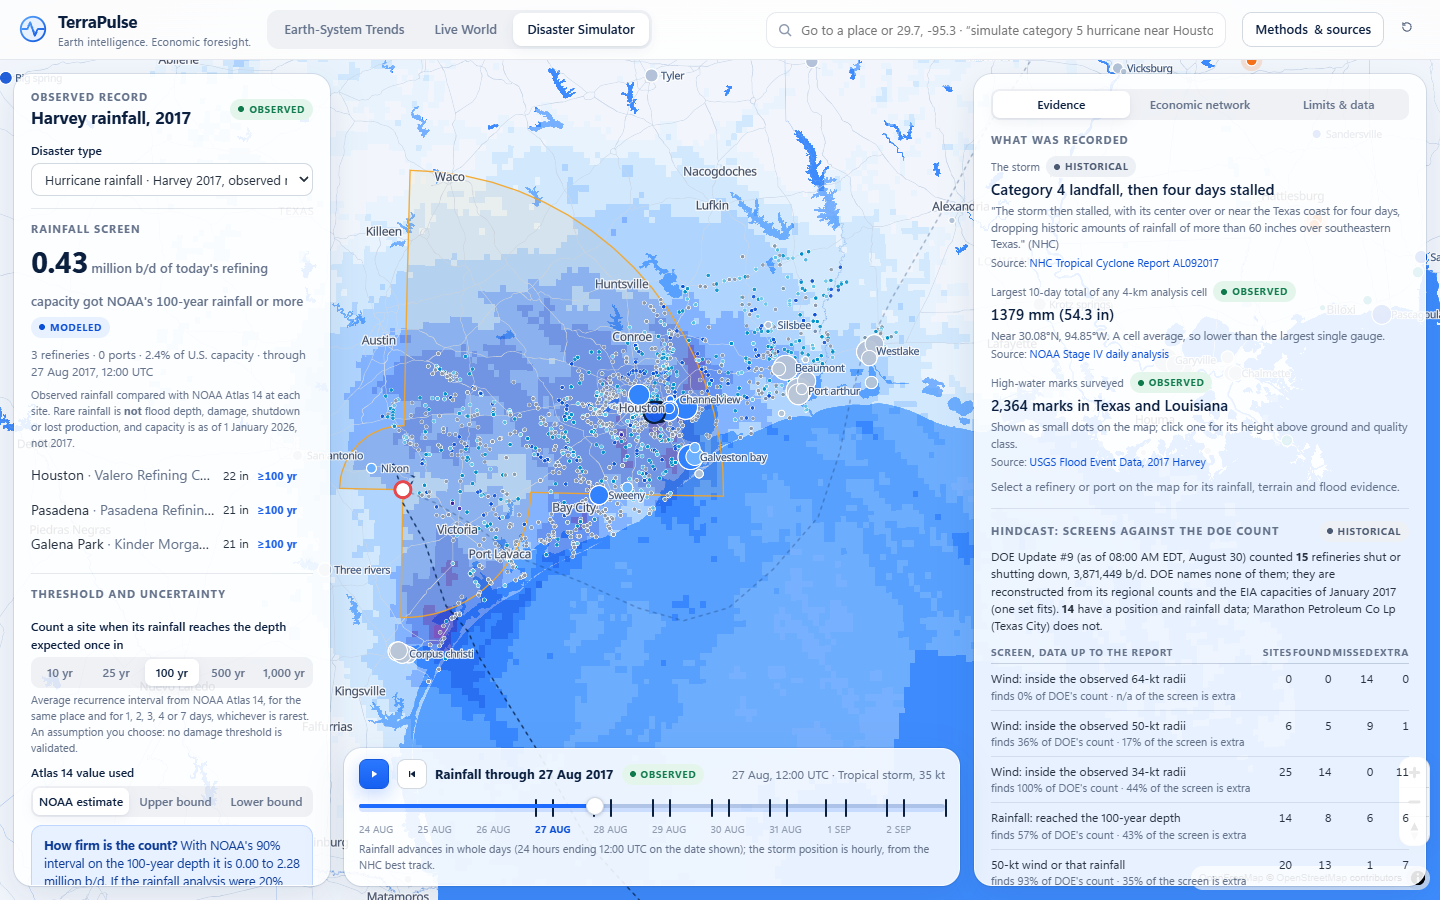
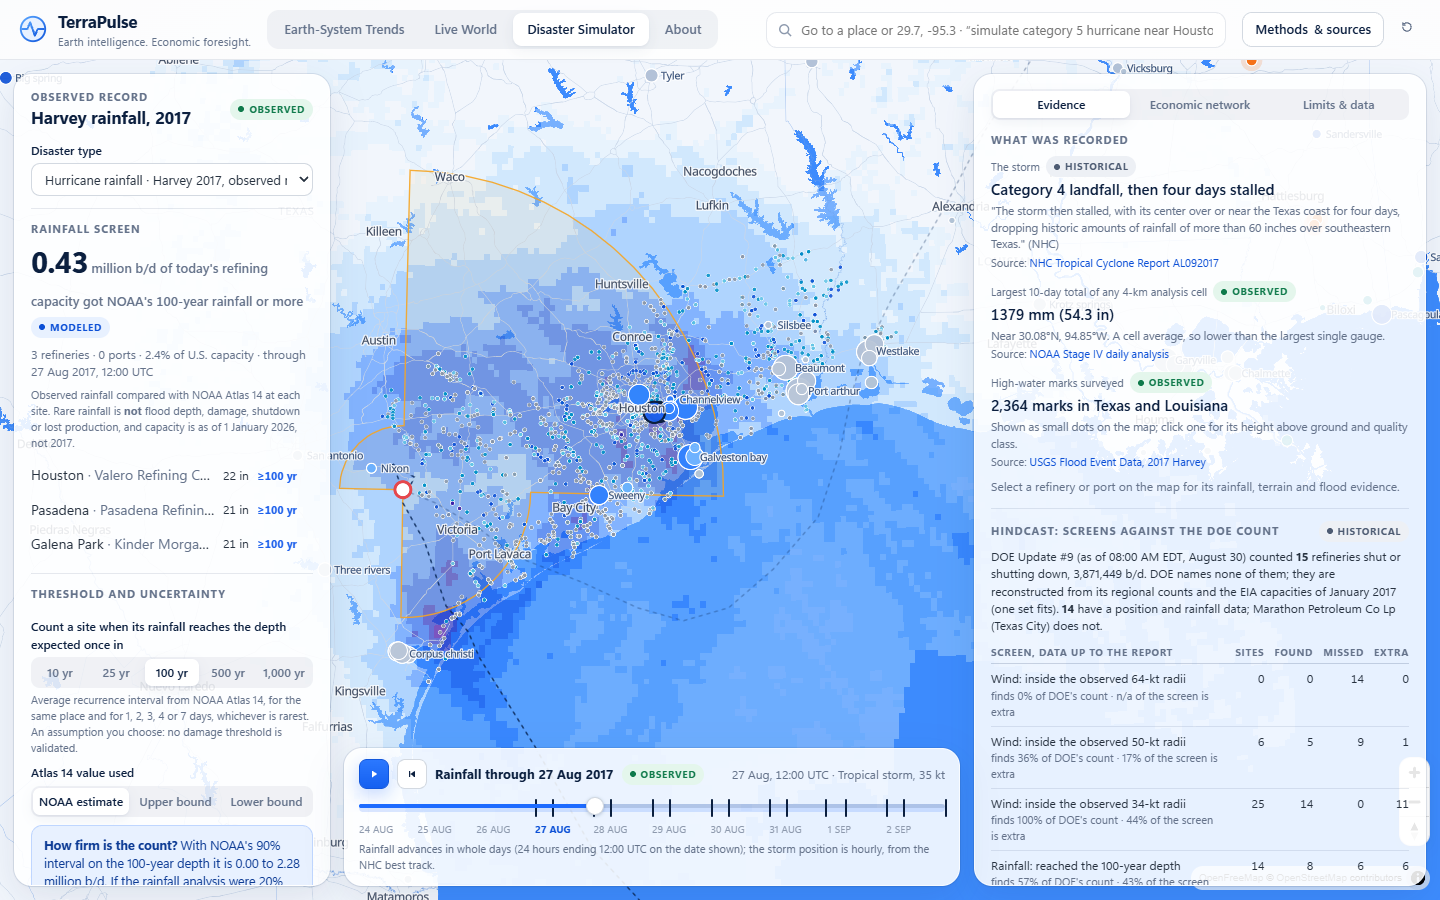
Records for the hazard branch: status, validation, tests, sources, tasks, blockers
- docs/HAZARD_SIM_BRANCH.md: what was added, validated versus experimental versus
  refused, test results, screenshots, demonstration paths, merge notes, data gaps.
- MODEL_VALIDATION.md sections 7 to 9; TEST_REPORT.md; DATA_SOURCES.md; BLOCKERS.md;
  PROGRESS.md; TASK_QUEUE.json (T08 and T23 done, T26 to T32 added); CLAUDE.md.
- Screenshots retaken after merging main.

Changed region(s): [[0.6875, 0.7778, 0.875, 0.9956], [0.875, 0.7156, 0.9375, 0.7467]]

diff --git a/docs/HAZARD_SIM_BRANCH.md b/docs/HAZARD_SIM_BRANCH.md
@@ -1,0 +1,99 @@
+# Hazard simulation research branch
+
+Branch `research/hazard-sim`, worktree `../terrapulse-sim`. Started 15 November 2026 from `cc5b89a`;
+`main` (showcase page and final demo video, `db5c4b6`) was merged in on 16 November with no conflicts.
+
+**Not deployed and not pushed.** The public site, the NASA submission video and the original
+`crollila/terrapulse` repository are untouched. The deploy workflow runs only on pushes to `main`.
+
+## What was added
+
+| Area | In the app | Science record |
+|---|---|---|
+| Hurricane rainfall and flood evidence | Simulator → "Hurricane rainfall · Harvey 2017, observed record" | `research/RAINFALL_FLOOD.md` |
+| Wildfire | Simulator → "Wildfire · observed record, three U.S. fires" | `research/WILDFIRE.md` |
+| Economic connections | "Economic network" tab in both views; one network builder for every hazard | sections 5 and 7 of the rainfall report, section 4 of the wildfire report |
+| R-CLIPER rainfall for hypothetical storms | A context line on a selected site in the wind scenario | section 6 of the rainfall report |
+
+## What is validated, what is experimental, what was refused
+
+| Item | Status | Evidence |
+|---|---|---|
+| Harvey rainfall, terrain and flood evidence at 69 sites (NOAA Stage IV, NASA IMERG and MERRA-2, NOAA Atlas 14, USGS elevation and 2,364 high-water marks, FEMA zones) | **Validated as data** | Provenance and hashes in every file; Stage IV against 1,129 rain gauges: r = 0.98, mean absolute difference 24 mm |
+| EIA refinery fleet as of 1 January 2017 | **Validated as data** | National total 18,617,027 b/d reproduced from the EIA workbook |
+| DOE's count of refineries shut, Updates #1 to #9 | **Reconstructed**, one fitting set per report | DOE names no refinery; arithmetic plus DOE's regional counts; stable for any area radius from 108 to 166 km |
+| DOE's count, Updates #10 to #22 | **Unresolved** | No regional counts printed; hundreds of sets fit |
+| Rainfall screen (observed rainfall against Atlas 14) | **Experimental** | Hindcast on one storm: finds 8 of 14 counted refineries, includes 6 not counted |
+| 50-kt wind or 100-year rainfall | **Experimental** | 13 of 14, with 7 not counted |
+| R-CLIPER modelled rainfall | **Fails on Harvey; context only** | 16% of observed rainfall where more than 750 mm fell |
+| Observed perimeters and satellite detections of three fires | **Validated as a record** | 99.6%, 98.4% and 88.4% of detections within one pixel of the separately mapped final perimeters |
+| Wildfire proximity screen | **Experimental** | Geometry only; distance is not damage |
+| Wind network after the builder was generalised | **Unchanged** | SHA-256 fingerprints of three scenarios identical before and after |
+| Flood depth, inundation, damage, outage duration | **Not built** | No trustworthy method was established |
+| Wildfire spread simulation | **Not offered** | Inputs unverified, model outside its stated domain, no validation |
+| Prices, losses, company or portfolio returns | **Not estimated anywhere** | By rule |
+
+## Tests (16 November 2026, after merging `main`)
+
+| Suite | Result |
+|---|---|
+| Type-check (`tsc --noEmit`, strict) | clean |
+| Unit and integration (Vitest) | **450 passed**, 0 failed: 357 existing + 22 rainfall arithmetic + 29 rainfall data and hindcast + 18 R-CLIPER + 8 network + 16 wildfire |
+| Browser, production build, Chromium (Playwright) | **36 passed**, 0 failed: 22 in `app.spec.ts` (including the showcase's) + 8 in `hazards.spec.ts` + 6 in `wildfire.spec.ts` |
+| Build | succeeds; bundle 1.78 MB (515 kB gzip); new data 2.7 MB uncompressed |
+
+Not run: Firefox and WebKit for the new specs; real phones; the live site (nothing was deployed).
+
+Browser tests ran against `vite preview --port 4183` with `TP_BASE_URL=http://localhost:4183/`, so
+they could not pick up another workstream's server on the default port.
+
+## Screenshots
+
+`docs/screenshots/sim/`, taken from the production build by `scripts/capture-hazards.mjs`:
+`01` rainfall whole record · `02` 27 August with wind radii · `03` a site's evidence (Port Arthur) ·
+`04` hindcast table · `05` rainfall economic network · `06` Camp Fire, 40 hours in · `07` Smokehouse
+Creek network · `08` Marshall Fire evidence · `09` wind scenario with the R-CLIPER line · `10` methods.
+
+## Demonstration paths
+
+1. **Why wind was not enough.** Simulator → Hurricane rainfall. Read the left table: observed 64-kt
+   radii hold 0.00 million b/d; the 100-year rainfall screen holds 4.40; DOE counted 3.87.
+2. **Watch it happen.** Press play. Rainfall steps day by day; the storm marker and wind radii move
+   hourly; ticks on the bar are the landfall and each DOE report.
+3. **One site.** Click Motiva Port Arthur: 1,222 mm against a 1,000-year 4-day depth; NASA IMERG saw
+   601 mm; 11 high-water marks within 5 km; counted as shut from DOE Update #9.
+4. **Honest scoring.** Evidence tab, hindcast table. Change the threshold: the table follows it.
+5. **To the economy.** Economic network tab: sites to operators to commodities; the portfolio screen;
+   DOE's and EIA's recorded impacts on one axis; a table of what is and is not claimed.
+6. **A fire, replayed.** Simulator → Wildfire. Scrub the Camp Fire: satellite detections by overpass
+   and the perimeter mapped by each date. Switch to Smokehouse Creek and set 10 km: the Borger
+   refinery is 7.8 km from the perimeter.
+
+## Merging
+
+`main` merges into this branch cleanly as of `db5c4b6`. Shared files this branch edits:
+`src/App.tsx` (two branches of the simulator switch), `src/state/store.ts` (hazard types and two
+view states), `src/components/Globe.tsx` (two hook calls, one camera branch, one condition),
+`src/components/Methods.tsx` (cards and source rows), `src/components/SimPanel.tsx`,
+`DroughtLab.tsx` (shared hazard selector), `Inspector.tsx` (R-CLIPER line), `ImpactGraph.tsx`
+(optional graph prop), `src/sim/graph.ts` (generalised builder), `src/styles.css` (one appended block).
+New browser tests live in their own spec files. Everything else is new files.
+
+To publish: review, then merge `research/hazard-sim` into `main` and push. Until then the public
+application does not change.
+
+## Remaining data gaps and research needs
+
+Rainfall and flood: section 9 of `research/RAINFALL_FLOOD.md`. Wildfire: section 7 of
+`research/WILDFIRE.md`. The largest:
+
+1. Named refinery status after 30 August 2017, and causes, from a primary source.
+2. More storms for the rainfall record, and 6-hourly rainfall.
+3. Observed inundation (USGS maps) and facility footprints instead of points.
+4. Ike (2008) scored by refinery: DOE's named table and the EIA 2008 workbook are downloaded, unused.
+5. A rainfall model that works for stalled storms; none verifiable was found.
+6. The Camp Fire's cause and fatalities from a saved primary source.
+7. Sub-daily fire timeline (NOAA HMS / GOES) and dated perimeters for more fires.
+8. A transmission-line layer with clear redistribution terms; a substation layer.
+9. A human-verified ticker table for utilities before any wildfire company or portfolio exposure.
+10. Hazards outside the United States.

diff --git a/DATA_SOURCES.md b/DATA_SOURCES.md
@@ -65,8 +65,37 @@ committed.
 
 - Equity prices: no free source with clear redistribution terms was verified. The app shows
   "Insufficient validated data".
-- NASA FIRMS active fires: needs a MAP_KEY for the API; not used. EONET wildfire events are used.
+- NASA FIRMS active fires: the API needs a MAP_KEY and is not used. The keyless yearly country archive is used for the wildfire record (branch `research/hazard-sim`); EONET wildfire events are used for the live layer.
 - NHC `CurrentStorms.json`: CORS not verified; EONET severe storms are used.
 - EIA API v2: needs a key; the no-key history workbooks are used instead.
 - Space Apps participant offers (Microsoft, Google, Meteomatics, GoDaddy, Miro): not evaluated and
   not activated. None is needed.
+
+## Hazard extensions (branch `research/hazard-sim`)
+
+All keyless. Provenance (provider, URL, retrieval time, hashes) is in the `meta` block of each file
+under `public/data/rainfall/`, `public/data/hindcast/` and `public/data/wildfire/`.
+
+| Dataset | Provider | Used for | Terms |
+|---|---|---|---|
+| Stage IV daily multisensor precipitation analysis | NOAA NWS / NCEP | Harvey rainfall field and site rainfall | U.S. Government, public domain |
+| Atlas 14 precipitation frequency estimates (HDSC) | NOAA NWS | Rainfall rarity at each site | U.S. Government, public domain |
+| GPM IMERG and MERRA-2 daily rainfall via NASA POWER | NASA | Second and third rainfall estimates | NASA open data |
+| GHCN-Daily | NOAA NCEI | Gauge check of Stage IV | U.S. Government, public domain |
+| Flood Event Data, high-water marks, event "2017 Harvey" | USGS | Observed flooding | U.S. Government, public domain |
+| 3DEP Elevation Point Query Service | USGS | Ground elevation at site points | U.S. Government, public domain |
+| National Flood Hazard Layer | FEMA | Regulatory flood zone at site points | U.S. Government, public domain |
+| Refinery Capacity Report as of 1 January 2017 | U.S. EIA | Fleet at the time of Harvey | U.S. Government, public domain |
+| Hurricane Harvey event reports, Updates #1 to #22 | U.S. DOE | Counts and capacities of refineries shut | U.S. Government, public domain |
+| Fire perimeters (WFIGS, perimeter history, GeoMAC archive) | NIFC | Observed wildfire perimeters | U.S. Government interagency data, no warranty; no explicit licence sentence found |
+| VIIRS 375 m active fire archive (FIRMS) | NASA | Satellite fire detections | NASA open data; cite FIRMS |
+| gridMET | Climatology Lab (Abatzoglou 2013) | Fire-danger indices and weather at each fire's origin | Copyright waived by the author |
+| U.S. Drought Monitor county statistics | NDMC, USDA, NOAA, NASA | County drought class | Use with attribution |
+| Power plants; natural gas pipelines (map layers) | U.S. EIA | Energy infrastructure near fires | U.S. Government, public domain |
+| Electric power transmission lines (archived copy) | HIFLD | Line length inside perimeters; **derived figures only, lines not stored** | Redistribution terms of the archived copy not verified |
+| Incident API; Damage Inspection (DINS) record counts | CAL FIRE | Camp Fire dates, size, structures destroyed (count only) | State of California; no explicit open licence found |
+| TIGERweb decennial counts | U.S. Census Bureau | Population of Paradise, 2010 and 2020 | U.S. Government, public domain |
+
+Considered and not used: NASA Earthdata downloads (need a login); NOAA HMS GOES detections (keyless,
+not yet integrated); USA Structures footprints (present-day, too large); Census Data API (now needs
+a key); any fire-spread model (see `research/WILDFIRE.md`).

diff --git a/MODEL_VALIDATION.md b/MODEL_VALIDATION.md
@@ -134,5 +134,49 @@ drought chronology in this build.
 
 ## 6. Not modelled
 
-Wildfire, earthquake, flood and other hazards have no model yet. The simulator lists them as not
-built. Drought has an index and what-if but no economic exposure.
+Earthquake, flood depth and other hazards have no model. Wildfire spread is not modelled and the
+simulator says it is not offered (section 9). Drought has an index and what-if but no economic
+exposure.
+
+## 7. Observed-rainfall exposure screen (`src/sim/rainfall.ts`): EXPERIMENTAL (branch `research/hazard-sim`)
+
+Data are validated; the screen is not validated as a predictor. Full record: `research/RAINFALL_FLOOD.md`.
+
+- Inputs: NOAA Stage IV daily rainfall for Hurricane Harvey at 69 sites, NOAA Atlas 14 depths with
+  90% bounds, NASA IMERG and MERRA-2 as second estimates. Stage IV against 1,129 GHCN-Daily gauges:
+  r = 0.984, mean absolute difference 23.7 mm (74.5 mm for the 45 gauges above 750 mm). Not a fully
+  independent test: Stage IV is itself gauge-adjusted.
+- Method: largest 1, 2, 3, 4 and 7-day totals against the Atlas 14 depth for a chosen recurrence
+  interval; never extrapolated past 1,000 years; no flood depth, damage or shutdown.
+- Target: DOE's count of refineries shut. DOE names none; Updates #1 to #9 are reconstructed (one
+  fitting set each from DOE's regional counts and the EIA capacities of 1 January 2017); #10 to #22
+  are unresolved.
+- Hindcast at DOE Update #9 (12:00 UTC 30 August 2017), 39 refineries of the 2017 fleet, 14 counted:
+  64-kt wind radii 0 found; 50-kt 5 found, 1 not counted; 34-kt 14 found, 11 not counted; 100-year
+  rainfall 8 found, 6 missed, 6 not counted; 50-kt wind or rainfall 13 found, 1 missed, 7 not counted.
+- Uncertainty: 11 to 17 sites across the Atlas 14 bounds; 11 to 15 for rainfall 20% low or high.
+- Why it stays experimental: one storm; a mixed-cause, reconstructed target; a false-alarm ratio of
+  35 to 43%; the 34-kt wind extent does as well on hits.
+- Tests: `rainfall.test.ts` (22), `rainfall.data.test.ts` (29), `rainGraph.test.ts` (8).
+
+## 8. R-CLIPER rainfall climatology (`src/sim/rcliper.ts`): FAILS ON HARVEY, context only
+
+Tuleya, DeMaria and Kuligowski (2007), Eqs. 3 to 5 and Table 2 (NHC rows), implemented as printed.
+Run along the best track of Harvey against Stage IV: 33% of observed rainfall over all 69 sites,
+16% where more than 750 mm fell (correlation -0.21 there), and too much at Corpus Christi. Shown in
+the wind scenario as a labelled context line; no exposure is counted with it. Tests: `rcliper.test.ts` (18).
+
+## 9. Wildfire observed record and proximity screen (`src/sim/wildfire.ts`): record validated, screen EXPERIMENTAL
+
+Full record: `research/WILDFIRE.md`.
+
+- Three fires (Camp 2018, Marshall 2021, Smokehouse Creek 2024): NIFC perimeters, NASA FIRMS VIIRS
+  detections, gridMET and NASA POWER conditions, EIA power plants and pipelines.
+- Consistency of the record: 99.6%, 98.4% and 88.4% of detections lie within one pixel of the
+  separately mapped final perimeters (the rest at Smokehouse Creek are other fires). For the Camp
+  Fire, 87.1% to 95.9% of the detections so far lie inside each of 27 dated perimeters.
+- The screen lists infrastructure inside or within a chosen distance of the final perimeter.
+  Distance is not damage.
+- **No fire spread is simulated.** Rothermel's model needs inputs that could not be verified and its
+  own documentation excludes crown fire and firebrands; no validation was done.
+- Tests: `wildfire.test.ts` (16).

diff --git a/BLOCKERS.md b/BLOCKERS.md
@@ -31,3 +31,26 @@ Updated 2026-11-15 21:00 MST.
 - Work continues only while this computer is on, a Claude Code session is open and included usage
   is available. Nothing runs in the cloud on a schedule.
 - No paid service, credit card or usage credit has been enabled, and none is needed.
+
+## Hazard simulation branch (16 November 2026)
+
+Needs the Team Owner:
+
+4. **Approval to publish.** Branch `research/hazard-sim` is built, tested and merged with `main`
+   locally. It has not been pushed or deployed. Review `docs/HAZARD_SIM_BRANCH.md`, then merge to
+   `main` to publish, or leave it isolated.
+5. **Utilities in the ticker table.** Wildfire company and portfolio exposure is withheld because
+   utilities have no verified listing mapping. A person should supply or confirm one.
+6. **Two pages that refuse automated requests** (CAL FIRE's Camp Fire incident page; the Butte County
+   District Attorney's report). Save them by hand into `research/raw/wildfire/facts/` and the build
+   will check and add the cause and fatality quotes.
+
+Technical, not yet resolved:
+
+| Item | Why it is open | Effect |
+|---|---|---|
+| Which refineries DOE counted after 30 August 2017 | DOE prints no names and no regional counts from Update #10 | Hindcast stops at Update #9 |
+| Flood depth at a site | No keyless hydraulic model or inundation surface at refinery scale | Rainfall rarity and high-water marks are shown instead; depth is "Not estimated" |
+| Rainfall for hypothetical storms | R-CLIPER fails on Harvey; no verifiable alternative found | Context line only; no rainfall exposure for a what-if storm |
+| Wildfire spread | Unverified inputs, model outside its stated domain, no validation | Not offered |
+| Transmission lines | Only an archived copy with unverified redistribution terms | Lengths stored, lines not drawn |

diff --git a/TEST_REPORT.md b/TEST_REPORT.md
@@ -83,3 +83,24 @@ Still imperfect:
 - Performance on low-end GPUs (only software WebGL in headless browsers, a slow case, where every
   test ran in under 10 seconds).
 - Long sessions, tab suspension, very slow networks.
+
+## Hazard extensions (branch `research/hazard-sim`, 16 November 2026, after merging `main`)
+
+| Suite | Tool | Result |
+|---|---|---|
+| Rainfall screen arithmetic (`rainfall.test.ts`) | Vitest | 22 passed |
+| Rainfall data, time handling, DOE reconstruction, hindcast regression values (`rainfall.data.test.ts`) | Vitest | 29 passed |
+| R-CLIPER equations and its Harvey hindcast (`rcliper.test.ts`) | Vitest | 18 passed |
+| Economic network: wind fingerprints unchanged, rainfall exposure set (`rainGraph.test.ts`) | Vitest | 8 passed |
+| Wildfire geometry, record integrity, agreement, proximity screen, network (`wildfire.test.ts`) | Vitest | 16 passed |
+| **Unit and integration total on the branch** | Vitest | **450 passed, 0 failed** |
+| Rainfall view, hindcast, network, R-CLIPER context, phone layout (`tests/e2e/hazards.spec.ts`) | Playwright, Chromium | 8 passed |
+| Wildfire view, three fires, timeline, proximity screen, network, phone layout (`tests/e2e/wildfire.spec.ts`) | Playwright, Chromium | 6 passed |
+| Existing suite including the showcase tests (`tests/e2e/app.spec.ts`) | Playwright, Chromium | 22 passed |
+| **Browser total on the branch** | Playwright | **36 passed, 0 failed** |
+| Type-check | `tsc --noEmit` | clean |
+
+One real defect was found by these tests and fixed: the new timeline's clock label overflowed a
+390 px screen by 35 px.
+
+Not run on the branch: Firefox and WebKit for the two new spec files; real phones; the live site.

diff --git a/CLAUDE.md b/CLAUDE.md
@@ -43,6 +43,13 @@ node scripts/capture.mjs http://localhost:4173/   # screenshots and demo recordi
 - `src/components/`: UI. `Globe.tsx` owns the MapLibre map.
 - `public/data/`: bundled datasets with provenance in each file's `meta`.
 - `research/`: how the infrastructure and Harvey data were built, with quoted sources.
+- `src/sim/rainfall.ts`, `rainRecord.ts`, `harveyHindcast.ts`, `rainGraph.ts`: observed-rainfall
+  screen for Hurricane Harvey, its timeline, hindcast and network. `rcliper.ts`: context only.
+- `src/sim/wildfire.ts`: observed wildfire record and proximity screen. No spread model, on purpose.
+- `src/sim/graph.ts` `buildExposureGraph`: one economic network for every hazard (`ExposureSet`).
+- `src/components/RainfallLab.tsx`, `WildfireLab.tsx`, `ExposureNetwork.tsx`, `globe/*Layers.ts`.
+- `research/RAINFALL_FLOOD.md`, `research/WILDFIRE.md`, `docs/HAZARD_SIM_BRANCH.md`: the science
+  record and branch status. Rebuild data with the `research/scripts/build_*.py` scripts.
 
 ## Gotchas
 
@@ -55,3 +62,8 @@ node scripts/capture.mjs http://localhost:4173/   # screenshots and demo recordi
 - The Bash tool mangles heredocs that contain backticks or mixed quotes; write files with the
   Write tool.
 - React StrictMode is intentionally off (see DECISIONS.md).
+- gridMET point subsets return packed integers without scale factors; read them from the `.das`.
+- Run browser tests for a worktree against its own preview port
+  (`npx vite preview --port 4183` and `TP_BASE_URL=http://localhost:4183/`), or Playwright may reuse
+  another checkout's server on 4173.
+- Pin test values from program output, never from a number read off a chart.

diff --git a/PROGRESS.md b/PROGRESS.md
@@ -97,3 +97,19 @@ None at the last run.
 ## Next executable task
 
 `npm run resume` prints it.
+
+## Hazard simulation research branch (16 November 2026): built and tested, NOT deployed
+
+Branch `research/hazard-sim` (worktree `../terrapulse-sim`). `main` is merged in; nothing was pushed
+and the live site is unchanged. Full record: `docs/HAZARD_SIM_BRANCH.md`.
+
+| Feature | Evidence |
+|---|---|
+| Observed rainfall and flood evidence for Hurricane Harvey (NOAA Stage IV, NASA IMERG, NOAA Atlas 14, USGS high-water marks and elevation, FEMA zones) | 51 unit tests; 6 browser tests; `research/RAINFALL_FLOOD.md` |
+| Hindcast on the 2017 refinery fleet against the reconstructed DOE count | 64-kt wind 0 of 14; 100-year rainfall 8 of 14 with 6 not counted; 50-kt wind or rainfall 13 of 14 with 7 not counted. Pinned by tests |
+| R-CLIPER modelled rainfall: fails on Harvey, shown as context only | 18 unit tests; 16% of observed rainfall where more than 750 mm fell |
+| Wildfire observed record: Camp (2018), Marshall (2021), Smokehouse Creek (2024) | 16 unit tests; 6 browser tests; `research/WILDFIRE.md` |
+| One economic network builder for every hazard; wind network unchanged | 8 unit tests with SHA-256 fingerprints |
+
+Test counts on the branch: 450 unit tests and 36 browser tests passed, 0 failed.
+Still not built: flood depth, wildfire spread, any price or loss estimate. See the branch record.
